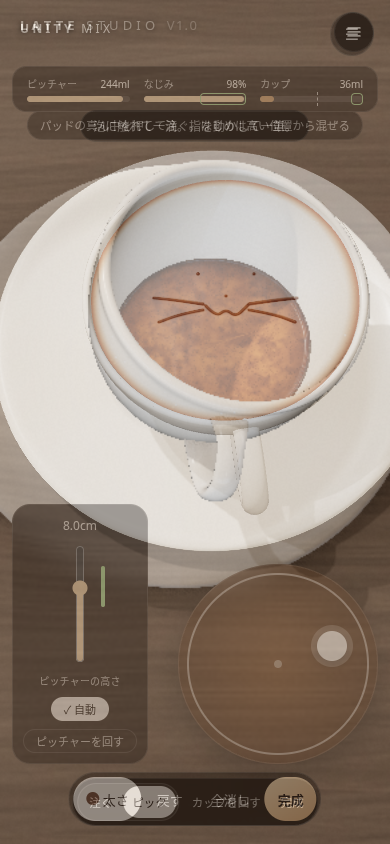
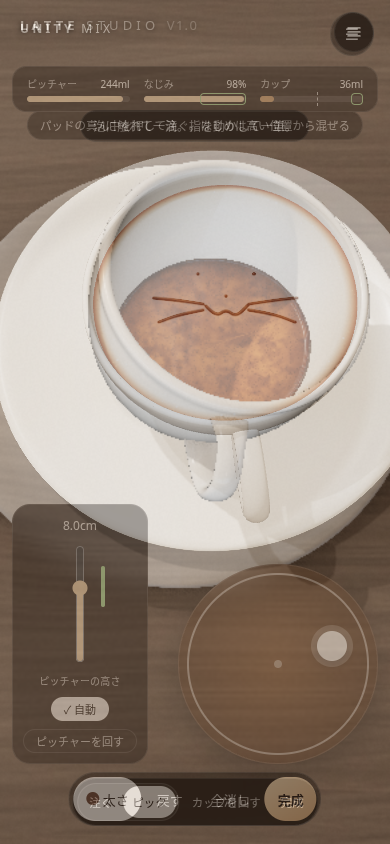
Refine latte cup depth and verify touch release in browsers

diff --git a/public/latte-art/cup-scene.js b/public/latte-art/cup-scene.js
@@ -1,8 +1,8 @@
 import * as THREE from '../vendor/three/three.module.js';
 import { paintChocolate } from './drawing.js';
 
-const FOAM_RADIUS = 1.346;
-const FOAM_HEIGHT = 1.25;
+const FOAM_RADIUS = 1.332;
+const FOAM_HEIGHT = 1.17;
 const ART_SIZE = 1024;
 const PHOTO_SIZE = 1200;
 const DRAW_HANDLE_ANGLE = -1.43;
@@ -124,6 +124,31 @@ function walnutTexture() {
   return texture;
 }
 
+function windowReflection() {
+  const canvas = document.createElement('canvas');
+  canvas.width = 256;
+  canvas.height = 128;
+  const context = canvas.getContext('2d');
+  const room = context.createLinearGradient(0, 0, 0, 128);
+  room.addColorStop(0, '#8f8175');
+  room.addColorStop(.43, '#6c5747');
+  room.addColorStop(.64, '#3d2e24');
+  room.addColorStop(1, '#241a14');
+  context.fillStyle = room;
+  context.fillRect(0, 0, 256, 128);
+  context.fillStyle = '#dcd7cf';
+  context.fillRect(53, 21, 46, 33);
+  context.fillStyle = '#fffaf1';
+  context.fillRect(55, 23, 19, 29);
+  context.fillRect(77, 23, 20, 29);
+  context.fillStyle = '#a48b73';
+  context.fillRect(177, 50, 31, 19);
+  const map = new THREE.CanvasTexture(canvas);
+  map.colorSpace = THREE.SRGBColorSpace;
+  map.mapping = THREE.EquirectangularReflectionMapping;
+  return map;
+}
+
 function lathe(rows, material) {
   const mesh = new THREE.Mesh(new THREE.LatheGeometry(rows.map(([r, y]) => new THREE.Vector2(r, y)), 112), material);
   mesh.castShadow = mesh.receiveShadow = true;
@@ -153,9 +178,9 @@ function buildTableware(scene, foam) {
     [.85, .38], [.68, .33], [0, .33],
   ], porcelain);
   cup.add(bowl);
-  const handleRing = new THREE.Mesh(new THREE.TorusGeometry(.41, .105, 14, 56), porcelain);
+  const handleRing = new THREE.Mesh(new THREE.TorusGeometry(.37, .105, 14, 56), porcelain);
   handleRing.scale.set(1.12, .82, 1.24);
-  handleRing.position.set(1.59, .88, 0);
+  handleRing.position.set(1.72, .88, 0);
   handleRing.castShadow = handleRing.receiveShadow = true;
   const handle = new THREE.Group();
   handle.add(handleRing);
@@ -169,6 +194,7 @@ function buildTableware(scene, foam) {
   }));
   disk.rotation.x = -Math.PI / 2;
   disk.position.y = FOAM_HEIGHT;
+  disk.receiveShadow = true;
   cup.add(disk);
   scene.add(cup);
   return { foamTexture, handle };
@@ -209,12 +235,15 @@ export function createCupScene(mainCanvas, fallbackCanvas, foam) {
   }
   const scene = new THREE.Scene();
   scene.background = new THREE.Color('#554a40');
+  scene.environment = windowReflection();
+  scene.environmentIntensity = .38;
+  scene.environmentRotation.y = .32;
   renderer.toneMapping = THREE.ACESFilmicToneMapping;
   renderer.toneMappingExposure = 1.18;
   renderer.shadowMap.enabled = true;
   renderer.shadowMap.type = THREE.PCFSoftShadowMap;
 
-  const atmosphere = new THREE.HemisphereLight('#fff5e8', '#655345', 2.15);
+  const atmosphere = new THREE.HemisphereLight('#fff5e8', '#655345', 1.91);
   const windowLight = new THREE.DirectionalLight('#fff8f1', 3.1);
   windowLight.position.set(-5, 8, -3.4);
   windowLight.castShadow = true;
@@ -365,19 +394,22 @@ export function createCupScene(mainCanvas, fallbackCanvas, foam) {
     placeCamera(framing, 'photo', 1);
     const oldSize = renderer.getSize(new THREE.Vector2());
     const oldRatio = renderer.getPixelRatio();
-    renderer.setPixelRatio(1);
-    renderer.setSize(PHOTO_SIZE, PHOTO_SIZE, false);
     const angle = handle.rotation.y;
     const hadSpoon = spoon.visible;
-    handle.rotation.y = 0;
-    spoon.visible = true;
-    renderer.render(scene, framing);
-    handle.rotation.y = angle;
-    spoon.visible = hadSpoon;
-    picture.getContext('2d').drawImage(mainCanvas, 0, 0);
-    renderer.setPixelRatio(oldRatio);
-    renderer.setSize(oldSize.x, oldSize.y, false);
-    invalidate();
+    try {
+      renderer.setPixelRatio(1);
+      renderer.setSize(PHOTO_SIZE, PHOTO_SIZE, false);
+      handle.rotation.y = 0;
+      spoon.visible = true;
+      renderer.render(scene, framing);
+      picture.getContext('2d').drawImage(mainCanvas, 0, 0);
+    } finally {
+      handle.rotation.y = angle;
+      spoon.visible = hadSpoon;
+      renderer.setPixelRatio(oldRatio);
+      renderer.setSize(oldSize.x, oldSize.y, false);
+      invalidate();
+    }
     return picture;
   }
 

diff --git a/public/latte-art/app.js b/public/latte-art/app.js
@@ -192,7 +192,7 @@ function preparePhoto(cycle) {
   }
 }
 
-$('finish').onclick = () => {
+function finishDrawing() {
   if (mode !== 'draw') return;
   const cycle = ++resultCycle;
   $('saveImage').disabled = true;
@@ -206,8 +206,28 @@ $('finish').onclick = () => {
   setMode('serve', true);
   // Give the serving view a frame before rendering the higher resolution photo.
   requestAnimationFrame(() => requestAnimationFrame(() => preparePhoto(cycle)));
-  servingTimer = setTimeout(openResult, reducedMotion.matches ? 0 : 1350);
-};
+  if (!reducedMotion.matches) $('serving').focus({ preventScroll: true });
+  servingTimer = setTimeout(openResult, reducedMotion.matches ? 0 : 3000);
+}
+
+const finishButton = $('finish');
+let finishTouch = null;
+finishButton.onclick = finishDrawing;
+finishButton.addEventListener('pointerdown', event => {
+  if (event.pointerType !== 'touch' || !event.isPrimary) return;
+  finishTouch = { id: event.pointerId, x: event.clientX, y: event.clientY };
+});
+finishButton.addEventListener('pointercancel', () => { finishTouch = null; });
+finishButton.addEventListener('pointerup', event => {
+  const touch = finishTouch;
+  if (touch?.id !== event.pointerId) return;
+  finishTouch = null;
+  if (Math.hypot(event.clientX - touch.x, event.clientY - touch.y) > 12) return;
+  if (!finishButton.contains(document.elementFromPoint(event.clientX, event.clientY))) return;
+  // Real taps can lose their synthesized click immediately after a captured canvas drag.
+  // Keep keyboard/mouse clicks and let the mode check make both paths safe.
+  requestAnimationFrame(finishDrawing);
+});
 
 function openResult() {
   if (mode !== 'serve' || $('finishPanel').open) return;
@@ -235,13 +255,13 @@ $('saveImage').onclick = async () => {
   const file = photoFile;
   if (!file) return;
   const options = { files: [file], title: 'Unity MIX ラテアート' };
-  if (navigator.share && navigator.canShare?.(options)) {
-    try {
+  try {
+    if (navigator.share && navigator.canShare?.(options)) {
       await navigator.share(options);
       return;
-    } catch (error) {
-      if (error.name === 'AbortError') return;
     }
+  } catch (error) {
+    if (error.name === 'AbortError') return;
   }
   if (photoFile !== file || !photoUrl) return;
   const link = document.createElement('a');

diff --git a/public/latte-art/style.css b/public/latte-art/style.css
@@ -168,7 +168,7 @@ input[type="range"] { accent-color: var(--accent); }
   background: var(--glass);
   padding: .42em 1.1em;
   border-radius: 999px;
-  animation: reveal-message 330ms 260ms both;
+  animation: reveal-message 450ms 750ms both;
 }
 @media (prefers-reduced-motion: reduce) {
   .serve-overlay span { animation: none; }

diff --git a/docs/qa/latte-studio-alignment/README.md b/docs/qa/latte-studio-alignment/README.md
@@ -1,13 +1,13 @@
 # Latte Studioとの画面比較
 
-2026-11-18の工程Aで撮影した。比較の左は [Latte Studio](https://lattestudio.pages.dev/play) の実操作、中央は Unity MIX の作業開始時の公開版、右はローカルの作業ブランチ。3画面の表示領域はすべて390×844 CSS px。ChromiumのWebGL2をSwiftShaderで稼働させた。参考側は長いカメラ移動を待つと「ラテアートから」が操作でき、注ぎパッドで少量のミルクを落とした後にピックと完成へ進んだ。十分なミルクを入れた状態と、ハードウェアGPUでの速度は未確認。
+2026-11-18の工程Aで撮影した。比較の左は [Latte Studio](https://lattestudio.pages.dev/play) の実操作、中央は Unity MIX の作業開始時の公開版、右はローカルの作業ブランチ。3画面の表示領域はすべて390×844 CSS px。ChromiumのWebGL2をSwiftShaderで稼働させた。参考側は長いカメラ移動を待つと「ラテアートから」が操作でき、注ぎパッドでミルクを約61mL入れ、合計約100mLでピックと完成へ進んだ。この実操作を最新の比較に使った。満杯時の状態とハードウェアGPUでの速度は未確認。
 
 ## 画面と操作
 
 | 項目 | 観察した差 | この工程での改修 |
 | --- | --- | --- |
 | 描画中の構図 | 旧版のカップは右端で切れ、中心が約420pxの高さにあった。参考側の縁は約280px幅、中央より右寄り、中心は画面上から約290px。 | カップの縁を約285px幅、中心を (225, 300) 前後に調整。ソーサーを大きくし、取っ手を手前へ向けた。 |
-| 背景と器 | 旧版は赤みが強い木目、青いソーサー、濃い茶色の液面。参考側は落ち着いた木目と白い陶器に左上から光が当たる。 | 木の色を抑え、白いカップとソーサーを別々の断面から生成。丸い縁、持ち手、接地影、泡の縁、チョコの艶を実装。 |
+| 背景と器 | 旧版は赤みが強い木目、青いソーサー、濃い茶色の液面。参考側は落ち着いた木目と白い陶器に左上から光が当たる。 | 木の色を抑え、白いカップとソーサーを別々の断面から生成。丸い縁、持ち手、接地影、泡の縁、チョコの艶を実装。ミルクを注いだ参考画面を見た後、泡を少し下げ、縁から泡へ影が落ちるようにした。 |
 | 描画中の操作 | 旧版の説明、完成ボタン、ペンの列が作品の近くに重なった。参考側は小さな見出しと下端の約246pxの丸いバー。 | 許諾済みの参照UIの配色設定、位置、余白、押下と選択のスタイルを採用。下端に太さ、戻す、全消し、完成を集約し、描き方は短い案内にした。 |
 | 完成直後 | 旧版は明るいポストカードを別描画。参考側は暗い全面背景、上に約253px角の写真、右上に閉じる操作。 | 同じ寸法の写真を上に置く全面表示を採用。取っ手を右へ回し、スプーンを添える。画面と同じ3Dモデルから、操作部品の写らない1200×1200 PNGを保存する。 |
 
@@ -23,10 +23,12 @@ Unity MIX版は泡の上を直接なぞる。液面と入力は同じ3D座標を
 
 ## 再開
 
-1. 工程Aの残時間を作業時計に引き継ぐ。次は参考側に十分なミルクを注いだときの、陶器の反射、内壁と木目を撮影し、同じ座標で再比較する。
+1. 工程Aの残時間を作業時計に引き継ぐ。次は合計約100mLの参考画面を軸に、陶器の反射と内壁の深さを通常の端末でも撮影する。影の境界、取っ手の穴、完成時の画面遷移を同じ座標・時間で再比較する。
 2. 画面写真を更新するごとに、直接入力、画面回転、保存の取消を再実行する。PCと375px幅で一杯描き切る。
 3. 工程Aの実作業120分と品質条件を満たしてから、mainへ反映する。公開URLで工程Bを別枠で60分実施する。
 
 新しい画面は作業ブランチに保存。本番URLでは作業開始時の版が稼働中。
 
 描画中の安定した参考フレームと改修版を同じ座標で重ねた [50%重ね比較](overlay-drawing.png)、工程別の [作業時間の記録](progress.md) も保存した。
+
+追加でLinuxのPlaywright WebKit、iPhone Xプロファイル（375×812）を使用。WebGL表示、タップ、マウスによる連続線、全消しの取消、完成、PNGダウンロード、編集復帰を確認。Chromiumの320×568では下部バーの各ボタン高44px、横・縦スクロールなし、キーボードの完成とスキップを確認した。写真は準備に時間がかかる場合も作品を保持し、完了演出に先に入る。

diff --git a/docs/qa/latte-studio-alignment/progress.md b/docs/qa/latte-studio-alignment/progress.md
@@ -17,3 +17,19 @@
 ## 実作業時間の根拠
 
 操作・実装・テストを進めていたことを確認できた区間（UTC）：17:12:31–17:18:28、17:18:59–17:23:41、17:24:40–17:27:43、17:28:00–17:29:15、17:29:50–17:33:43、17:34:00–17:35:00、17:36:10–17:37:17。合計20分57秒を分単位で切り下げた。初期調査、計測に確信のない区間、記録作成、待機を計上しない。後続の作業も開始・終了を時計で記録する。
+
+## 追加サイクル
+
+- 17:42:48。作業領域にLinuxのWebKitと不足ライブラリを用意。375×812のiPhoneプロファイルで、タップ、マウスによる線、全消しの取消、保存、編集復帰に合格。参考の完了タイミングに合わせ、通常時は約3秒で写真へ進む設定に更新。
+- 17:44:40。カップとスプーンに窓の反射を追加。描画や画面更新が必要なときだけ描く方式に切り替えたあと、短い静止時チェックで追加の描画コールバックがないことを確認。
+- 17:49:38。描画直後のタッチでクリックが発行されない場合も、完成ボタン内で指を離せば一度だけ進むよう修正。390pxのChromiumと375pxのWebKitで保存・編集復帰まで再確認。320×568で下部バー、キーボードの完成とスキップ、復帰時のフォーカスを確認。
+
+計上区間として17:39:13–17:42:48、17:43:24–17:44:40、17:45:36–17:47:06、17:47:40–17:49:38を追加。前記と合わせて29分16秒を分単位で切り下げ、工程Aは29分を計上、残り91分。17:12:31からの時計の差は37分07秒。待機、参考処理を見守った区間、時刻確認や記録作成など、計測から除外した区間は合計7分51秒。工程Bは未着手のため0分・残り60分。
+
+- 17:51:49。Latte Studioでミルクを約61mL注いだ後（合計約100mL）の実機能を操作し、描画中と完成時を撮影。泡の高さと内壁の差を確認し、開発版の液面とその影を調整。390pxで保存・復帰まで再試験し、3列画像を更新。
+
+17:50:27–17:51:49を追加。計上した区間の合計30分38秒を切り下げ、工程Aは30分を計上、残り90分。チェックポイントの時計の差は39分18秒、計上区間外8分40秒。工程Aは継続扱い、工程Bは0分。mainへの反映は保留。
+
+- 17:53:48の中間保存。比較で取っ手の付け根が泡に飛び出す箇所を確認し、曲率と取り付け位置を変更。390pxで描画からダウンロードと編集復帰まで再試験。試験画像を更新して、影がフォームに落ちても輪郭が切れないことを確認した。
+
+17:52:47–17:53:48を追加。工程Aは確認した実作業31分39秒を切り下げて31分計上、残り89分。開始17:12:31、今回の最終計測17:53:48（経過41分17秒、計上区間外9分38秒）。工程Bは開始前で0分、残り60分。公開版は従来の版。次回はこのコミットの比較画像を起点に、参考の釉薬・取っ手の奥行き・木目の密度を同一条件で調整する。
